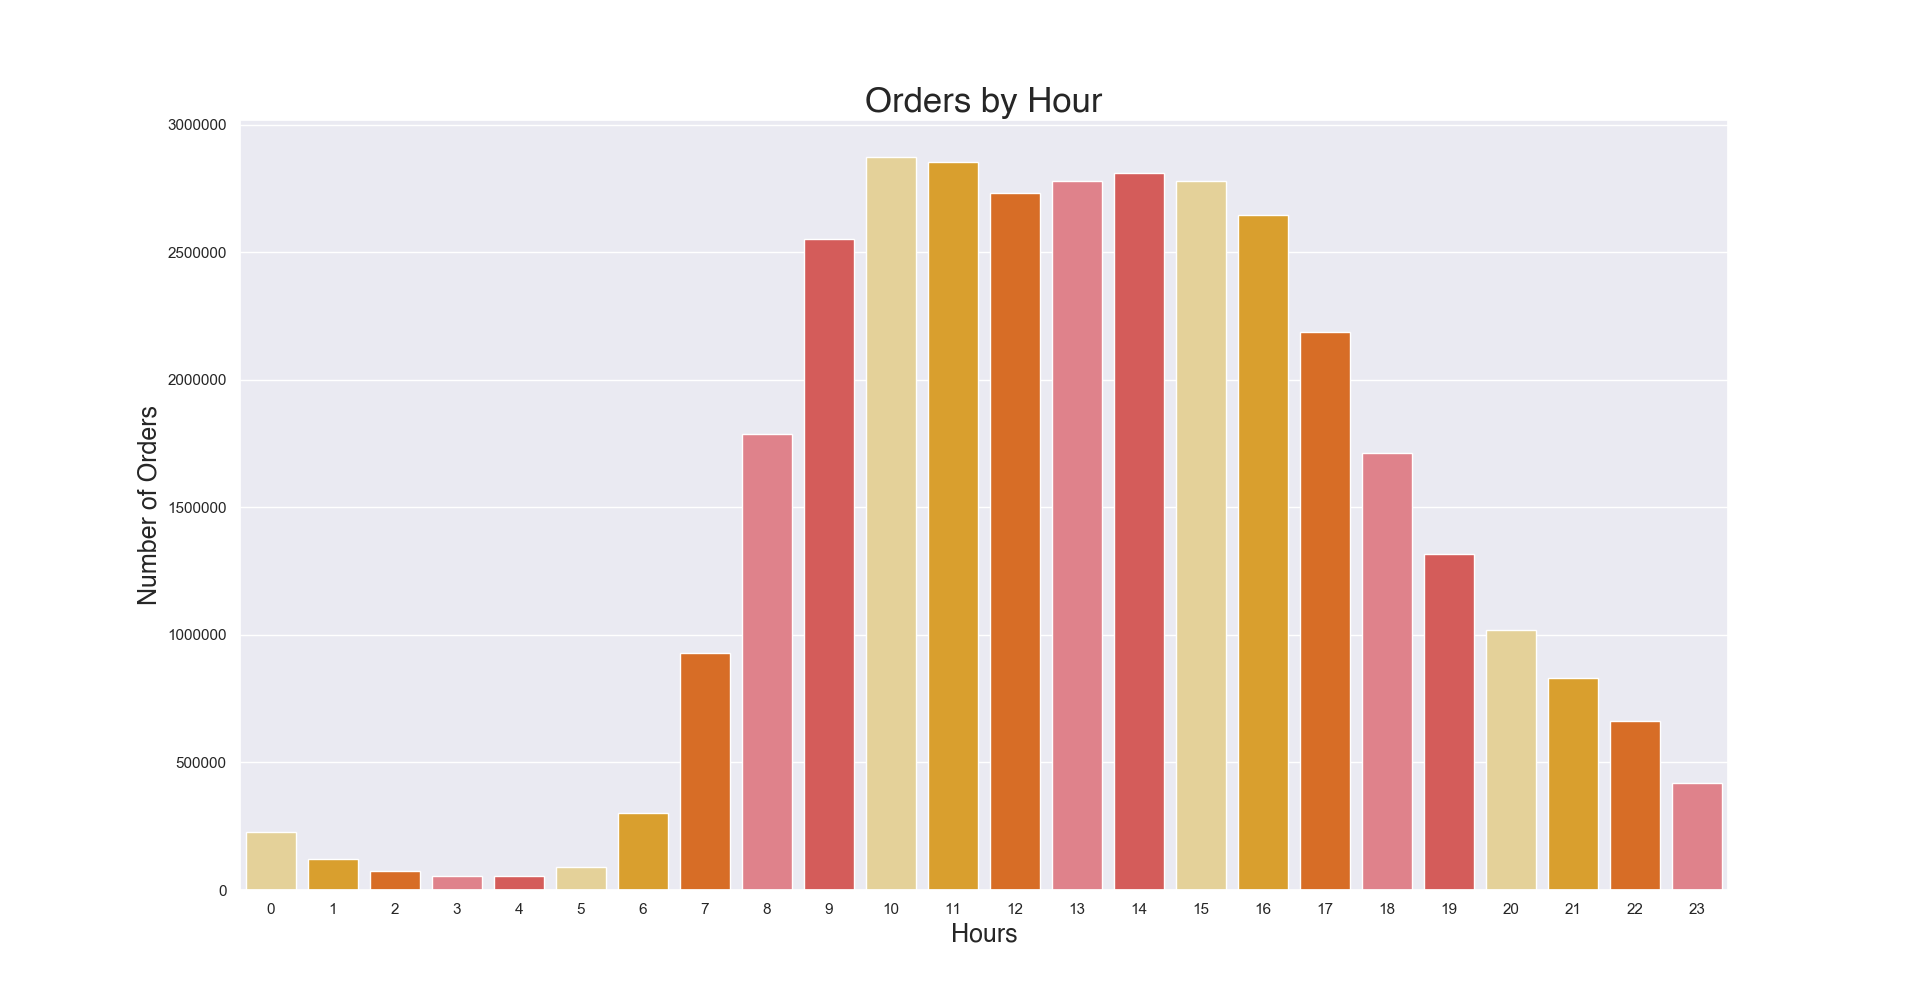
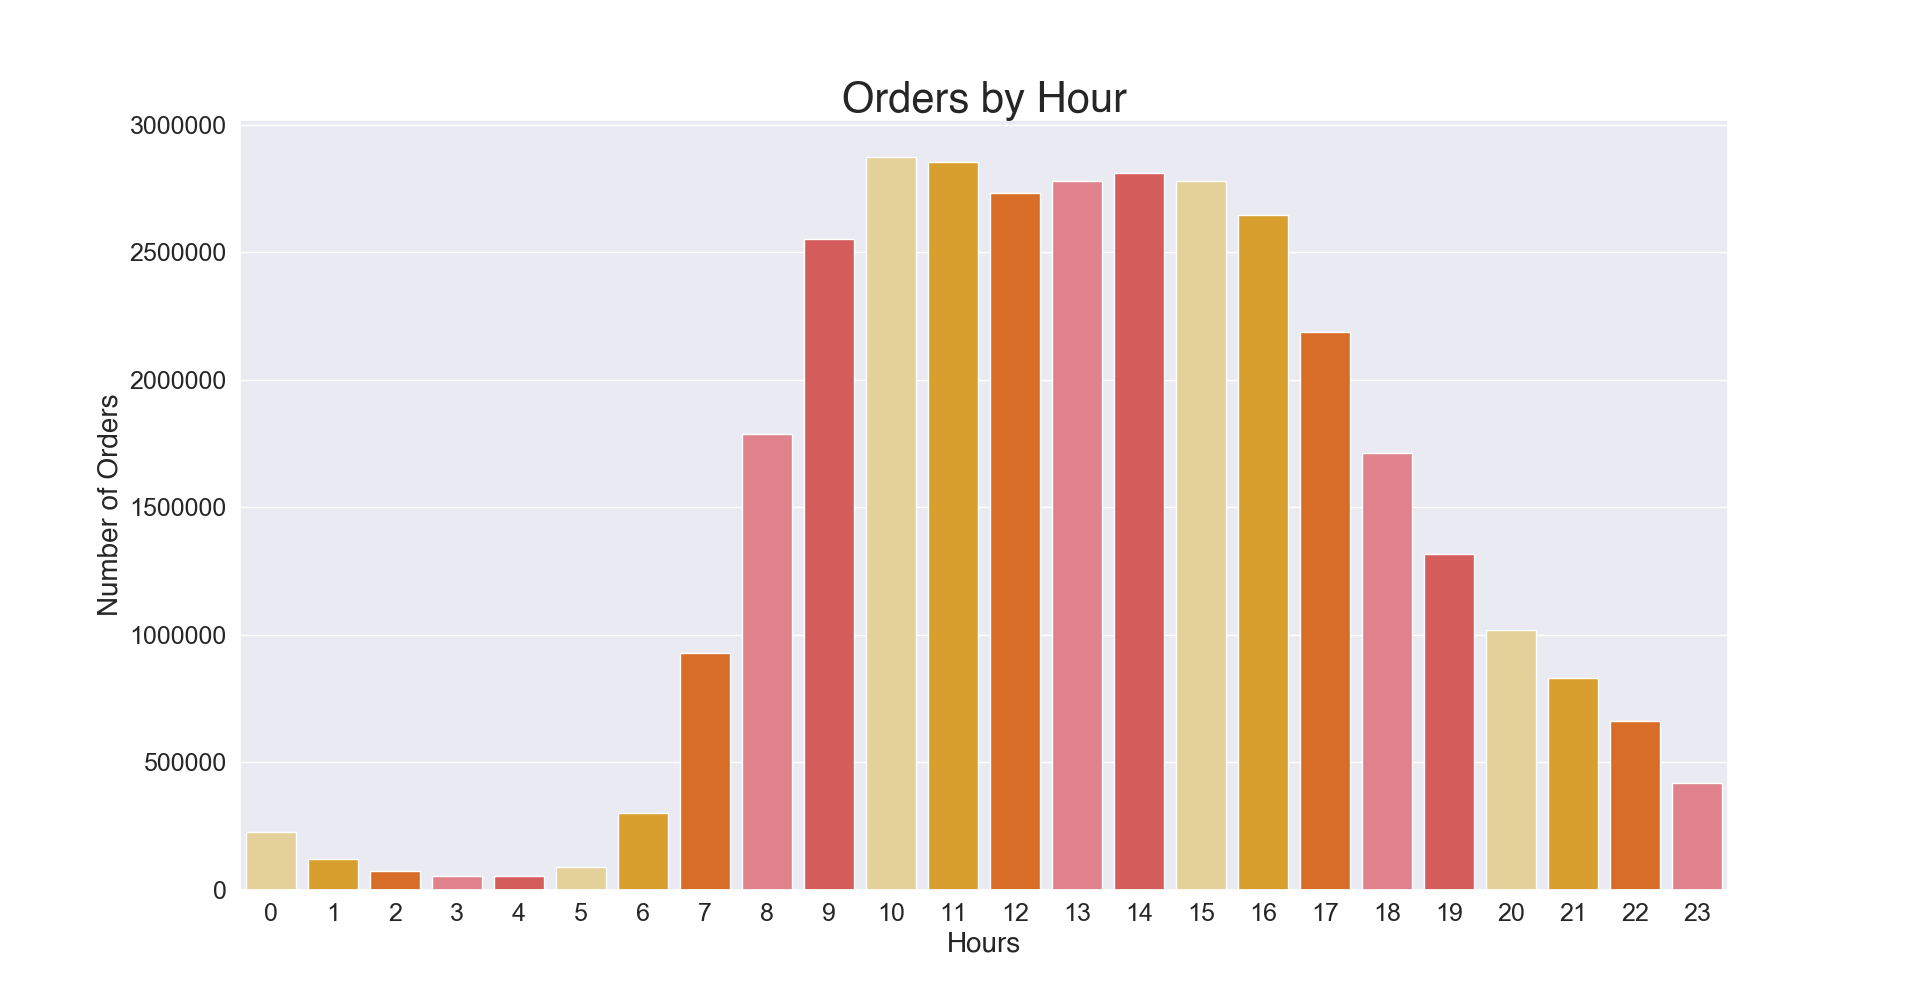
updating read.me

diff --git a/notebooks/graphing.py b/notebooks/graphing.py
@@ -4,15 +4,15 @@ import seaborn as sns
 import matplotlib.pyplot as plt
 sns.set()
 
-def make_graph(df, col_x, col_y, title, x_label, y_label)
+def make_graph(df, col_x, col_y, title, x_label, y_label):
     fig, ax = plt.subplots(figsize = (20, 10))
     ax = sns.barplot(df[col_x], df[col_y], palette = citrus)
-    ax.set_ylabel(ylabel, fontdict=fontaxis)
-    ax.set_xlabel(xlabel, fontdict=fontaxis)
-    plt.title(title fontdict=fonttitle)
+    ax.set_ylabel(y_label, fontdict=fontaxis)
+    ax.set_xlabel(x_label, fontdict=fontaxis)
+    ax.tick_params(axis='both', which='major', labelsize=18)
+    plt.title(title, fontdict=fonttitle)
     plt.show()
-
-
+    make_graph(hours, 'index', 'order_hour_of_day', 'Orders by Hour', "Hours", 'Number of Orders')
 if __name__ == "__main__":
     full = pd.read_csv("../full.csv")
 
@@ -25,24 +25,24 @@ if __name__ == "__main__":
     citrus = [color1, color2, color3, color4, color5]
     sns.palplot(sns.color_palette(citrus))
 
-    fonttitle = {'fontname':'Helvetica', 'fontsize':25}
-    fontaxis = {'fontname':'Helvetica', 'fontsize':18}
+    fonttitle = {'fontname':'Helvetica', 'fontsize':30}
+    fontaxis = {'fontname':'Helvetica', 'fontsize':20}
 
     #---    things to graph
     high_reord = full.groupby('product_name').agg({"reordered":"count"})\
                      .sort_values(by='reordered', ascending = False).reset_index()[:50]
-    dow = full['order_dow'].value_counts().reset_index()
+    # dow = full['order_dow'].value_counts().reset_index()
     hours = full['order_hour_of_day'].value_counts().reset_index().sort_values(by="index")
-    num_order = full['order_number'].value_counts()
-    top_depart = full.groupby('department').agg({"product_name":"size"})\
-                     .sort_values(by='product_name', ascending = False).reset_index()
-    top_aisle = full.groupby('aisle').agg({"product_name":"size"})\
-                     .sort_values(by='product_name', ascending = False).reset_index()[:25]
-    bottom_aisle = full.groupby('aisle').agg({"product_name":"size"})\
-                     .sort_values(by='product_name', ascending = False).reset_index()[84:]
+    # num_order = full['order_number'].value_counts()
+    # top_depart = full.groupby('department').agg({"product_name":"size"})\
+    #                  .sort_values(by='product_name', ascending = False).reset_index()
+    # top_aisle = full.groupby('aisle').agg({"product_name":"size"})\
+    #                  .sort_values(by='product_name', ascending = False).reset_index()[:25]
+    # bottom_aisle = full.groupby('aisle').agg({"product_name":"size"})\
+    #                  .sort_values(by='product_name', ascending = False).reset_index()[84:]
 
     #---    plots
-    make_graph(hours, 'index', 'order_hour_of_day', 'Orders by Hour',"Hours", 'Number of Orders')
-    make_graph(dow, 'index', 'order_dow', 'Orders by Day of Week', "Day", 'Number of Orders', )
-    make_graph(high_reord, 'product_name', 'reordered', 'Highest Reordered Item', "Item", 'Number of Reorders')
+    make_graph(hours, 'index', 'order_hour_of_day', 'Orders by Hour', "Hours", 'Number of Orders')
+    # make_graph(dow, 'index', 'order_dow', 'Orders by Day of Week', "Day", 'Number of Orders', )
+    # make_graph(high_reord, 'product_name', 'reordered', 'Highest Reordered Item', "Item", 'Number of Reorders')
                           

diff --git a/README.md b/README.md
@@ -1,6 +1,5 @@
 ![title](images/title.jpg)
 
-![title](images/instacartlogo.png)
 - Instacart partners with most supermarkets, and some local speciality shops depending on your area. Once you place an order a "personal shopper" will fulfill and deliver your order to your door on the same day
 - This dataset is made up of 3 million food orders from about 120,000 customers from the company spanned across multiple CSV files
 
@@ -9,6 +8,12 @@
 ![title](images/dayofweek.png)
 ![title](images/hour.png)
 
+## Question Number One:
+- Can I predict if an item will be reordered by a customer?
+
+## Question Number Two:
+- Can I group users together based on their purchases and recommend new items?
+
 ## Supervised Machine Learning
 - Built a Decision Tree with mean accuracy score of <num>
 - Ran gridsearch to find best parameters for a Decision Tree Classifier <num>
@@ -16,7 +21,7 @@
 - Ran gridsearch to find best parameters for a Random Forest Classifier <num>
 
 ## Unsupervised Machine Learning
-- Latent Features:
+- PCA: 
 
 
 #### Credits
